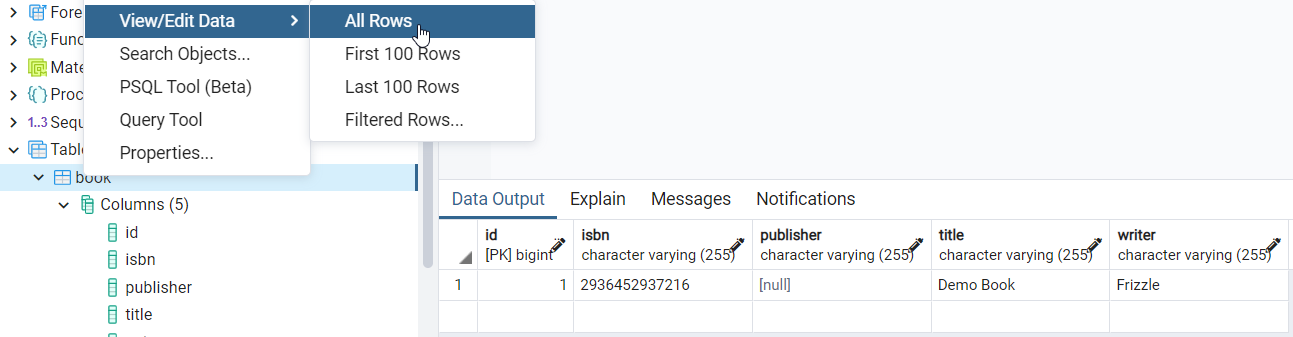
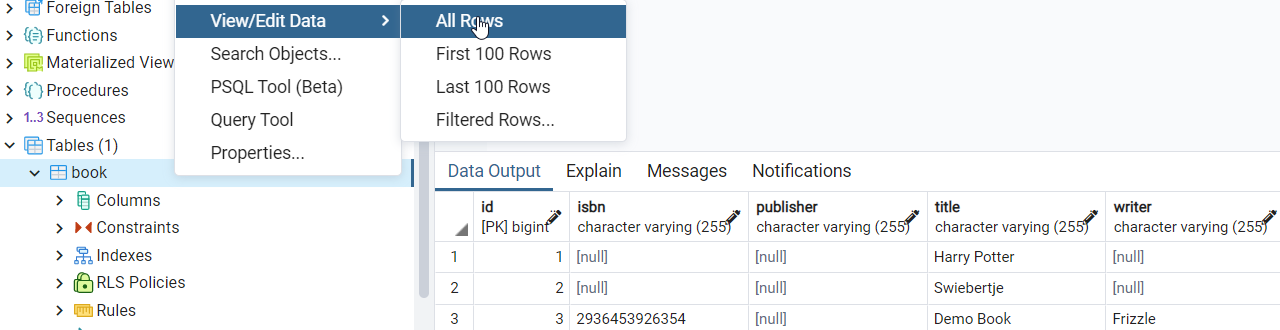
updated bibliotheek

diff --git a/bibliotheek.md b/bibliotheek.md
@@ -51,7 +51,7 @@ Wanneer klassen iets met elkaar te maken hebben dan zet je er een verbinding tus
 - Leenperiode: het exemplaar is geleend voor een periode door een lid. Leenperiode is een koppeling tussen
   exemplaar en lid (associatie - lijn)
 
-## Stap 3: database 
+## Stap 3: database en Spring Boot
 
 ### pgAdmin
 
@@ -97,7 +97,7 @@ Open het bestand in IntelliJ en load de Maven script (melding krijg je rechts on
 
 ![img41.png](images/img41.png)
 
-#### pom.xml
+#### Bestand pom.xml
 
 De `pom.xml` (maven dependency manager) specificeert welke pakketten je nodig hebt. De onderstaande heb je
 geïnstalleerd.
@@ -106,7 +106,7 @@ geïnstalleerd.
 
 Wanneer je in `pom.xml` een foutmelding krijgt bij de `version` van `parent`, zet je `<version>2.4.3</version>` erin.
 
-#### application.properties
+#### Bestand application.properties
 
 `@SpringBootApplication` moet gaan communiceren met postgreSQL. Om dit voorelkaar te krijgen moet je in het project van IntelliJ naar `resources` gaan en dan `application.properties`. De gegevens van postgreSQL worden aan de hand van de code die je daar inzet gekoppeld met de database. 
 
@@ -130,7 +130,7 @@ Wanneer je in `pom.xml` een foutmelding krijgt bij de `version` van `parent`, ze
 - `username` is jouw username in pgAdmin 
 - `password` is jouw wachtwoord in pgAdmin
 
-#### model
+#### Bestand model
 
 We gaan de entities maken die we in ons klassendiagram hebben gezet. We maken een nieuwe package genaamd `model` en een
 nieuwe klasse genaamd `Book.java` in IntelliJ.
@@ -319,7 +319,7 @@ De database H2 is in-memory. Je gaat naar de broswer en zoekt naar `localhost:80
 
 ![img.png](images/img47.png)
 
-#### data.sql
+#### Bestand data.sql
 
 Wanneer de database werkt, gaan we `Book` vullen met een aantal zaken zodat we kunnen zien dat er data in de tabel
 komt. Dit doe je door in de `resources` een nieuw file te maken en die noemen we `data.sql`. Dit is een `sql`
@@ -359,26 +359,18 @@ In postgreSQL krijg je de gegevens te zien die je in de `data.sql` heb gezet via
 
 ![img73.png](images/img73.png)
 
+### Repository
 
-
-
-
-
-## Repository
-
-We gaan een controller maken. We maken eerste aan package genaamd `controller` en een bestand
-genaamd `BookController.java`.
+We gaan een controller maken in het project van IntelliJ. We maken eerste aan package genaamd `controller` en een bestand genaamd `BookController.java`.
 
 ![img48.png](images/img48.png)
 
-Via `bookRepository` gaan we naar de database. Op hetzelfde niveau als controller maak je een nieuwe package `repository`
-en daarin een interface bestand genaamd `BookRepository`.
+Op hetzelfde niveau als controller maak je een nieuwe package `repository`
+en daarin een interface bestand genaamd `BookRepository`. Via `bookRepository` gaan we naar de database.
 
 ![img49.png](images/img.49png)
 
-De communicatie met de database gebeurd via een repository, dus BookRepository communiceert straks met de database. Het
-is een interface die op basis van een bestaande JpaRepository toegang heeft naar `book` op basis van de id wat `Long`
-is. Hij vertaald in wezen Java in een stukje SQL.
+De communicatie met de database gebeurd via een repository, dus BookRepository communiceert straks met de database. Het is een interface die op basis van een bestaande JpaRepository toegang heeft naar `book` op basis van de id wat `Long` is. Hij vertaald Java in SQL.
 
 _BookRepository.java_
 
@@ -391,10 +383,6 @@ import org.springframework.data.jpa.repository.JpaRepository;
 public interface BookRepository extends JpaRepository<Book, Long> {
 }
 ```
-
-We hebben een `@GetMapping` naar `/books` met een methode `getBooks`, die levert een `ResponseEntity` op en deze bestaat
-uit `books` en books is een `List` naar type `Book` en om deze boven water te krijgen doen we een bookRepository en find
-all `bookRepository.findAll();`. De bookRepository hebben we met `@Autowired` gedaan.
 
 _BookController.java_
 
@@ -424,21 +412,24 @@ public class BookController {
 }
 ```
 
+We hebben een `@GetMapping` naar `/books` met een methode `getBooks`, die levert een `ResponseEntity` op en deze bestaat
+uit `books` en books is een `List` naar type `Book`. Om deze boven water te krijgen doen we een bookRepository en `findAll();`. De bookRepository hebben we met `@Autowired` gedaan.
+
 Run de applicatie.
 
-Ga naar Postman en doe een GET naar `http://localhost:8080/books`. Je krijgt de data te zien uit `data.sql` in de body.
+Ga naar Postman en doe een `GET` naar `http://localhost:8080/books`. Je krijgt de data te zien uit `data.sql` in de body.
 
 ![img50.png](images/img50.png)
 
-In de terminal zie je allerlei opdrachten en daar staat `hibernate` tussen. Je ziet `select .... from book` staan en dit
+In de terminal van IntelliJ zie je allerlei opdrachten en daartussen staat `hibernate`. Je ziet `select .... from book` staan en dit
 is de sql statement die hibernate heeft gegenereerd op basis van wat hij weet van de entity. Doordat wij
-de `BookRepository.java` hebben toegevoegd, die eigenlijk niks doet, maar hij weet wel dat hij Book kan ophalen met een
+de `BookRepository.java` hebben toegevoegd (die eigenlijk niks doet) weet hij dat hij Book kan ophalen met een
 Long id: `JpaRepository<Book, Long>` en wanneer je deze repository gaat gebruiken je een `findAll()` kan doen die
 in `BookController` staat.
 
 ![img52.png](images/img52.png)
 
-### Endpoint /id
+### Endpoint: /id
 
 We gaan op basis van `/books` een `{id}` ophalen.
 
@@ -471,24 +462,24 @@ public class BookController {
     }
 
     @GetMapping(value = "/books/{id}")
-    public ResponseEntity<Optional<Book>> getBook(@PathVariable("id") long id) {
+    public ResponseEntity<Object> getBook(@PathVariable("id") long id) {
         return new ResponseEntity<>(bookRepository.findById(id), HttpStatus.OK);
     }
 }
 ```
 
-We hebben nu een `@GetMapping` voor een specifiek `{id}`. Deze gaat naar de bookRepository en die doet niet `findAll()`
+We hebben een `@GetMapping` voor een specifiek `{id}`. Deze gaat naar de bookRepository en die doet niet `findAll()`
 maar `findfById(id)`.
 
 Run de applicatie.
 
-Wanneer je in Postman `http://localhost:8080/books/2` en GET doe dan krijg je het boek "Swiebertje" in de body.
+Wanneer je in Postman `http://localhost:8080/books/2` en `GET` doe dan krijg je het boek "Swiebertje" in de body.
 
 ![img53.png](images/img53.png)
 
 ### Toevoegen boeken
 
-Met @PostMapping voegen we boeken toe.
+Met `@PostMapping` voegen we boeken toe.
 
 _BookController.java_
 
@@ -517,7 +508,7 @@ public class BookController {
     }
 
     @GetMapping(value = "/books/{id}")
-    public ResponseEntity<Optional<Book>> getBook(@PathVariable("id") long id) {
+    public ResponseEntity<Object> getBook(@PathVariable("id") long id) {
         return new ResponseEntity<>(bookRepository.findById(id), HttpStatus.OK);
     }
 
@@ -529,7 +520,7 @@ public class BookController {
 }
 ```
 
-`bookRepository` is de poort en `.save` is het boek die we krijgen: `bookRepository.save(book);`.
+In de `@Postmapping` code is de `bookRepository` de poort en `.save` is het book die we krijgen: `bookRepository.save(book);`.
 
 Run de applicatie.
 
@@ -537,23 +528,23 @@ In Postman gebruik je `POST` en de url `http://localhost:8080/books/` om boeken 
 
 ![img54.png](images/img54.png)
 
-Het toevoegen van boeken doe je in de `body` en dan drukken op `send`. Je krijgt een melding `Book created`.
+Het toevoegen van boeken doe je in de `body` en dan druk je op `send` om hem toe te voegen. Je krijgt een melding `Book created`.
 
 ![img55.png](images/img55.png)
 
-Wanneer je nu `GET` selecteer en de url `http://localhost:8080/books/`, krijg je het boek dat je hebt toegevoegd in de
+Wanneer je `GET` selecteer en de url `http://localhost:8080/books/`, krijg je het boek dat je hebt toegevoegd in de
 body.
 
 ![img56.png](images/img56.png)
 
-Wanneer je in postgreSQL kijkt, dan staat het boek toegevoegd in de database: schemas > tables > book > rechts klikken >
-view/edit data > all rows
+Wanneer je in postgreSQL kijkt, dan staat het boek toegevoegd in de database: Schemas > Tables > book > rechts klikken >
+View/Edit Data > All Rows
 
-![img.png](images/img57.png)
+![img57.png](images/img57.png)
 
 ### Delete boeken
 
-Het verwijderen van boeken doen we met @DeleteMapping.
+Het verwijderen van boeken doen we met `@DeleteMapping`.
 
 ```java
 package com.danielle.bibliotheek.controller;
@@ -580,7 +571,7 @@ public class BookController {
     }
 
     @GetMapping(value = "/books/{id}")
-    public ResponseEntity<Optional<Book>> getBook(@PathVariable("id") long id) {
+    public ResponseEntity<Object> getBook(@PathVariable("id") long id) {
         return new ResponseEntity<>(bookRepository.findById(id), HttpStatus.OK);
     }
 
@@ -597,6 +588,8 @@ public class BookController {
     }
 }
 ```
+
+Run de applicatie.
 
 We voegen data toe aan `POST` en url `http://localhost:8080/books/`.
 
@@ -635,7 +628,7 @@ Het deleten van een book doe je in Postman met `DELETE` en url `http://localhost
 
 ![img60.png](images/img60.png)
 
-Wanneer je alle boeken ophaalt in Postman met GET en `http://localhost:8080/books/` krijg je het volgende.
+Wanneer je alle boeken ophaalt in Postman met `GET` en `http://localhost:8080/books/` krijg je het volgende.
 
 ![img61.png](images/img61.png)
 
